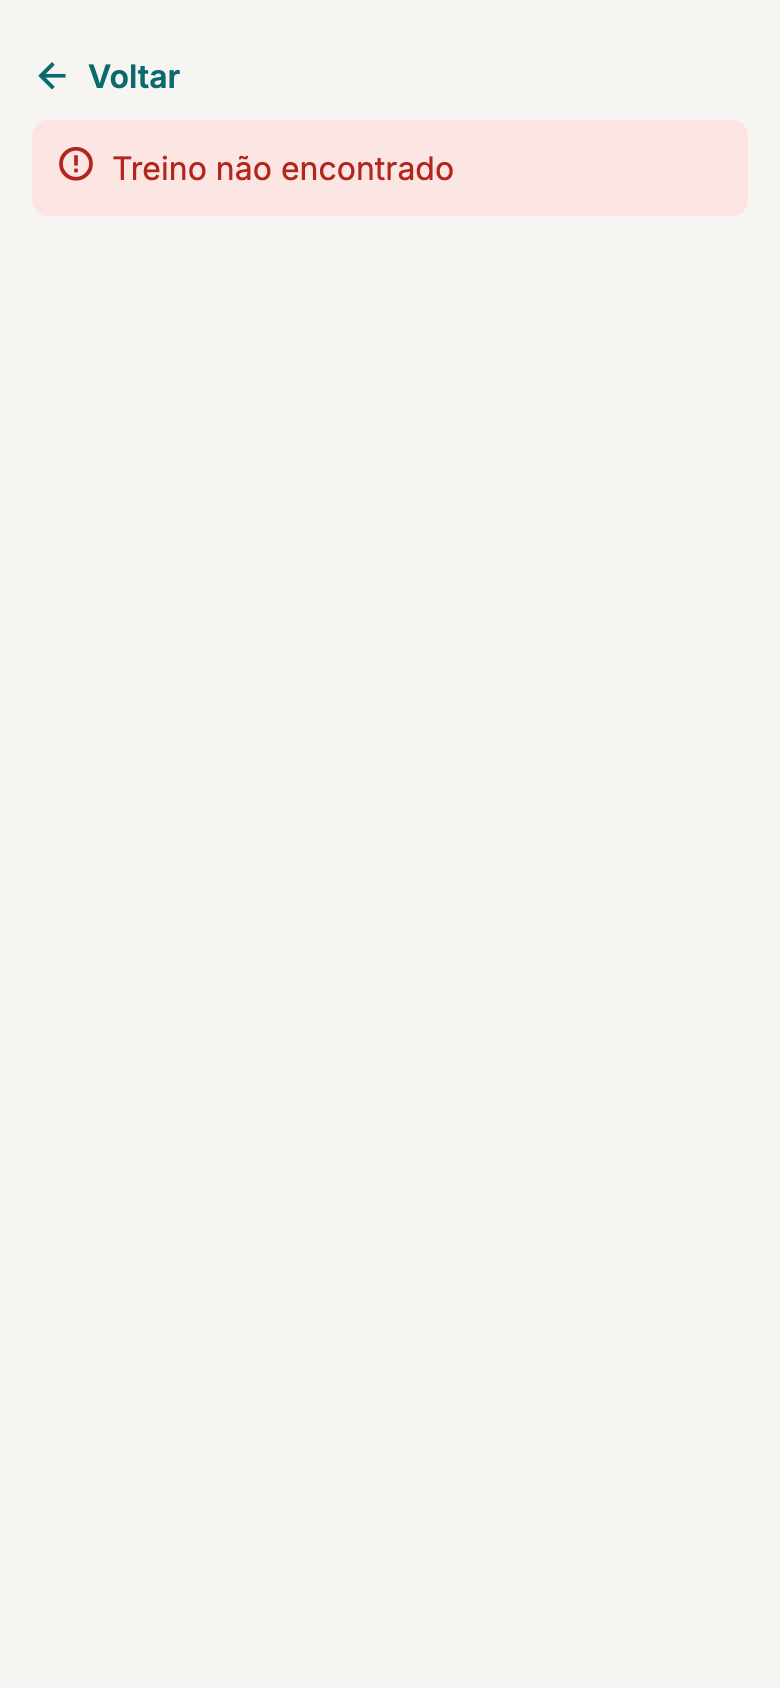
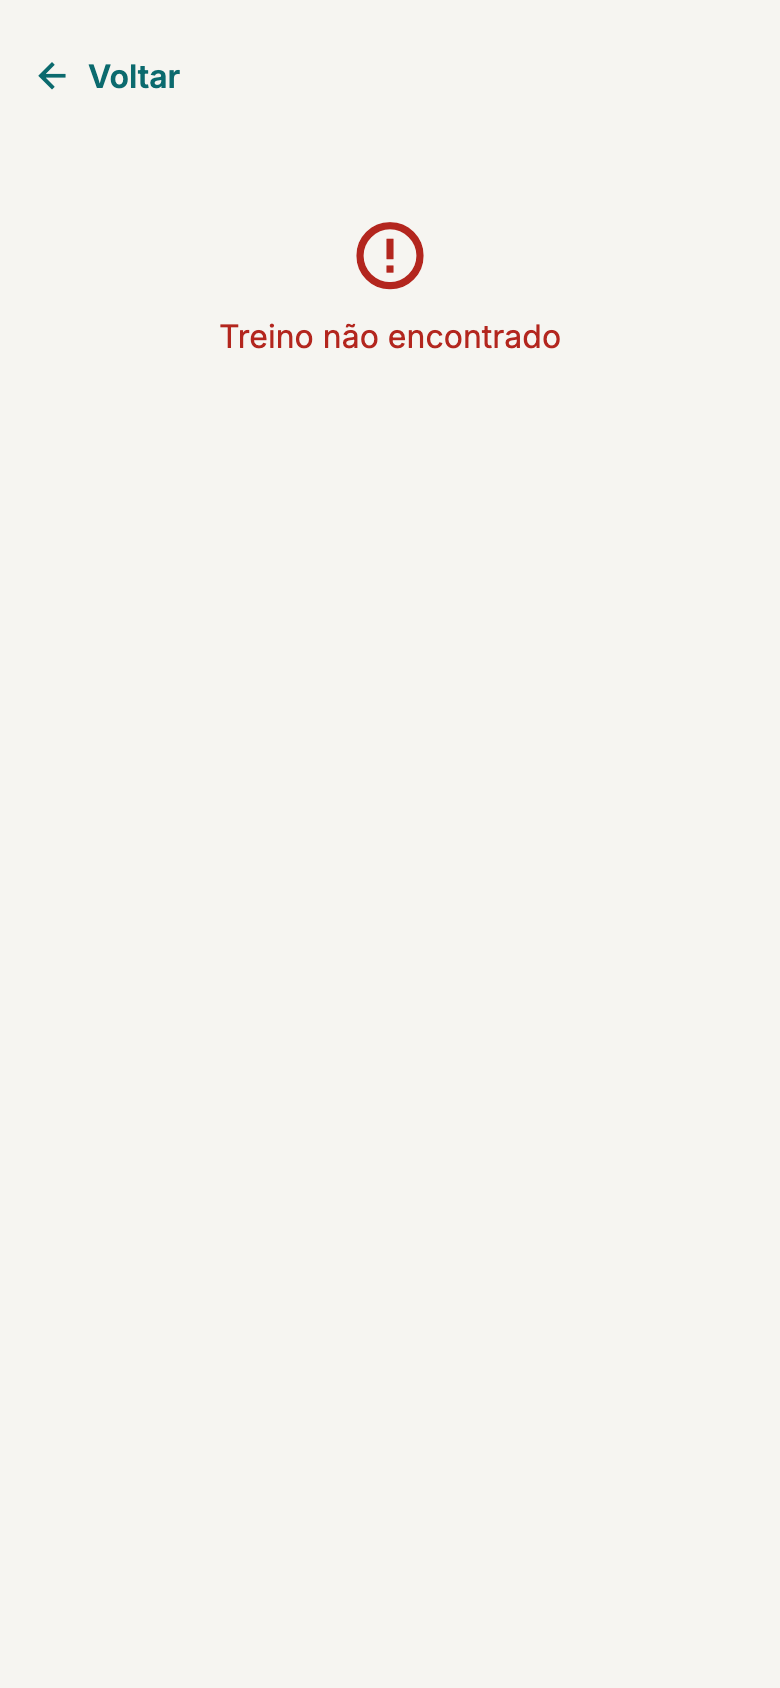
Tela de um treino: esqueleto, erro com ícone, acessibilidade e capturas (#219) (#225)
* Tela de um treino: esqueleto, ícones de erro, alerta e clima lido junto (#219)

* Teste da tela de um treino: folga de tempo para o primeiro render no CI (#219)

* Docs #219: mobile.md com a spec da tela do treino nos links

---------

Changed region(s): [[0.1538, 0.0924, 0.7077, 0.2156], [0.2769, 0.1848, 0.4, 0.2156], [0.0615, 0.0924, 0.1231, 0.1232]]

diff --git a/apps/mobile/src/componentes/TelaTreino.tsx b/apps/mobile/src/componentes/TelaTreino.tsx
@@ -1,9 +1,10 @@
 import { MaterialIcons } from "@expo/vector-icons";
 import { buscarAtividade, type Atividade, type ClimaAtividade, type ErroApi } from "@treino/api-client";
 import { useCallback, useEffect, useMemo, useState, type ReactNode } from "react";
-import { ActivityIndicator, Pressable, ScrollView, StyleSheet, Text, View } from "react-native";
+import { Pressable, ScrollView, StyleSheet, Text, View } from "react-native";
 
 import { borda, espaco, fonte, larguraConteudoMax, raio, tamanho, useMargemTela, useTema, type Tema } from "../tema";
+import { EsqueletoTreino } from "./Esqueleto";
 import { dataCurta } from "./GraficoTiros";
 
 type Props = {
@@ -79,17 +80,24 @@ export function TelaTreino({ apiUrl, atletaId, atividadeId, aoVoltar, fetchFn }:
         </Pressable>
       )}
       {estado.tipo === "carregando" && (
-        <View style={styles.centro}>
-          <ActivityIndicator color={tema.cor.destaque} />
-          <Text style={styles.texto}>Carregando o treino...</Text>
+        <View>
+          <Text accessibilityLiveRegion="polite" style={[styles.texto, { marginTop: espaco[2] }]}>
+            Carregando o treino...
+          </Text>
+          <EsqueletoTreino />
         </View>
       )}
       {estado.tipo === "erro" && (
-        <View>
-          <View style={[styles.aviso, { backgroundColor: tema.cor["erro-suave"] }]} accessibilityLiveRegion="polite">
-            <MaterialIcons name="error-outline" size={tamanho.iconeMedio} color={tema.cor.erro} />
-            <Text style={[styles.avisoTexto, { color: tema.cor.erro }]}>{mensagemErro(estado.erro)}</Text>
-          </View>
+        <View testID="estado-erro" style={styles.estado}>
+          <MaterialIcons
+            name={estado.erro.tipo === "rede" ? "wifi-off" : "error-outline"}
+            size={tamanho.iconeEstado}
+            color={tema.cor.erro}
+            accessible={false}
+          />
+          <Text accessibilityRole="alert" style={styles.erro}>
+            {mensagemErro(estado.erro)}
+          </Text>
           {estado.erro.tipo === "rede" && (
             <Pressable accessibilityRole="button" onPress={tentarDeNovo} style={styles.botao}>
               <Text style={styles.botaoTexto}>Tentar de novo</Text>
@@ -187,7 +195,7 @@ function CartaoClima({ clima, styles, tema }: { clima: ClimaAtividade; styles: E
 
 function Linha({ styles, rotulo, valor }: { styles: Estilos; rotulo: string; valor: string }) {
   return (
-    <View style={styles.linha}>
+    <View accessible accessibilityLabel={`${rotulo}, ${valor}`} style={styles.linha}>
       <Text style={styles.rotuloLinha}>{rotulo}</Text>
       <Text style={styles.valorLinha}>{valor}</Text>
     </View>
@@ -243,14 +251,14 @@ function criarEstilos({ cor }: Tema, margem: number = espaco[4]) {
     },
     chipTexto: { ...fonte.rotulo, color: cor.texto },
     subtitulo: { ...fonte.corpo, color: cor["texto-2"] },
-    centro: { alignItems: "center", paddingVertical: espaco[5], gap: espaco[2] },
+    estado: { alignItems: "center", paddingVertical: espaco[7], gap: espaco[2] },
+    erro: { ...fonte.corpo, color: cor.erro, textAlign: "center", marginBottom: espaco[3] },
     texto: { ...fonte.corpo, color: cor["texto-2"] },
     botao: {
       alignSelf: "flex-start",
       minHeight: tamanho.botaoAltura,
       justifyContent: "center",
       paddingHorizontal: espaco[4],
-      marginTop: espaco[3],
       borderRadius: raio.medio,
       backgroundColor: cor.destaque,
     },

diff --git a/apps/mobile/__tests__/TelaTreino.test.tsx b/apps/mobile/__tests__/TelaTreino.test.tsx
@@ -1,10 +1,14 @@
 import { StyleSheet } from "react-native";
-import { fireEvent, render, screen } from "@testing-library/react-native";
+import { fireEvent, render, screen, within } from "@testing-library/react-native";
 
 import { TelaTreino } from "../src/componentes/TelaTreino";
 import { atividades } from "../__fixtures__/atividades";
 
-jest.mock("@expo/vector-icons", () => require("../__fixtures__/iconesFalsos"));
+// Ícone falso com nome e tamanho (o real carrega a fonte e quebra no Jest).
+jest.mock("@expo/vector-icons", () => {
+  const { Text } = require("react-native");
+  return { MaterialIcons: ({ name, size }: { name: string; size: number }) => <Text>{`${name}:${size}`}</Text> };
+});
 
 const resposta = (status: number, corpo: unknown) =>
   ({ ok: status >= 200 && status < 300, status, json: async () => corpo }) as Response;
@@ -13,6 +17,9 @@ const fetchCom = (status: number, corpo: unknown) =>
 const tela = (f: typeof fetch, extra = {}) => (
   <TelaTreino apiUrl="http://api.teste" atletaId={1} atividadeId={101} fetchFn={f} {...extra} />
 );
+
+// O primeiro render a frio no CI passou de 5 s uma vez (#219); folga para a máquina lenta.
+jest.setTimeout(20000);
 
 describe("tela de um treino", () => {
   it("chama a API da atividade", async () => {
@@ -26,6 +33,32 @@ describe("tela de um treino", () => {
     const f = jest.fn(() => new Promise<Response>(() => {})) as unknown as typeof fetch;
     await render(tela(f));
     expect(screen.getByText("Carregando o treino...")).toBeTruthy();
+    expect(screen.getByTestId("esqueleto-treino", { includeHiddenElements: true })).toBeTruthy();
+    expect(screen.queryByTestId("esqueleto-evolucao", { includeHiddenElements: true })).toBeNull();
+  });
+
+  it("erro de rede: ícone wifi-off de 40, alerta e 'Tentar de novo'; 404 e 500: error-outline de 40", async () => {
+    const { unmount } = await render(tela(jest.fn().mockRejectedValue(new Error("x")) as unknown as typeof fetch));
+    const rede = await screen.findByTestId("estado-erro");
+    expect(within(rede).getByText("wifi-off:40")).toBeTruthy();
+    expect(within(rede).getByRole("alert")).toBeTruthy();
+    await unmount();
+    for (const status of [404, 500]) {
+      const r = await render(tela(fetchCom(status, { detail: "x" })));
+      const e = await screen.findByTestId("estado-erro");
+      expect(within(e).getByText("error-outline:40")).toBeTruthy();
+      expect(within(e).getByRole("alert")).toBeTruthy();
+      expect(within(e).queryByText("Tentar de novo")).toBeNull();
+      await r.unmount();
+    }
+  });
+
+  it("cada linha do clima é um item só, lido como 'rótulo, valor'", async () => {
+    await render(tela(fetchCom(200, atividades.ok)));
+    const cartao = await screen.findByTestId("cartao-clima");
+    for (const rotulo of ["Temperatura, 24,3 °C", "Sensação térmica, 25,1 °C", "Umidade, 61 %", "Vento, 8,2 km/h"]) {
+      expect(within(cartao).getByLabelText(rotulo).props.accessible).toBe(true);
+    }
   });
 
   it("clima ok: resumo com campos prontos, valores do clima e atribuição", async () => {

diff --git a/apps/mobile/src/componentes/Esqueleto.tsx b/apps/mobile/src/componentes/Esqueleto.tsx
@@ -41,14 +41,45 @@ function usePulso(reduzir: boolean): Animated.Value {
   return opacidade;
 }
 
-/** Esqueleto dos três cartões da tela de evolução (último treino, gráfico, lista). Só decorativo: o texto "Carregando" fica fora. */
-export function EsqueletoEvolucao() {
+/** Base dos esqueletos: pulso e fora da leitura (o texto "Carregando" fica fora, na tela). */
+function useBase() {
   const tema = useTema();
   const styles = useMemo(() => criarEstilos(tema), [tema]);
   const opacidade = usePulso(useReduzirMovimento());
   const barra = (largura: number | `${number}%`, altura: number, chave?: string) => (
     <View key={chave} style={[styles.barra, { width: largura, height: altura }]} />
   );
+  return { styles, opacidade, barra };
+}
+
+/** Esqueleto dos dois cartões da tela de um treino (resumo e clima). Só decorativo. */
+export function EsqueletoTreino() {
+  const { styles, opacidade, barra } = useBase();
+  return (
+    <Animated.View
+      testID="esqueleto-treino"
+      accessibilityElementsHidden
+      importantForAccessibility="no-hide-descendants"
+      style={{ opacity: opacidade }}
+    >
+      <View style={styles.cartao}>
+        {barra("30%", 16)}
+        {barra("40%", 44)}
+        {barra("50%", 20)}
+        {barra("60%", 20)}
+        {barra("40%", 16)}
+      </View>
+      <View style={styles.cartao}>
+        {barra("30%", 20)}
+        {[0, 1, 2, 3].map((i) => barra("100%", 44, `l${i}`))}
+      </View>
+    </Animated.View>
+  );
+}
+
+/** Esqueleto dos três cartões da tela de evolução (último treino, gráfico, lista). Só decorativo: o texto "Carregando" fica fora. */
+export function EsqueletoEvolucao() {
+  const { styles, opacidade, barra } = useBase();
   return (
     <Animated.View
       testID="esqueleto-evolucao"

diff --git a/docs/modulos/mobile.md b/docs/modulos/mobile.md
@@ -3,7 +3,7 @@ tipo: modulo
 status: em-uso
 dono: rafa
 atualizado: 2026-11-06
-links: [[modulos/api]], [[modulos/api-client]], [[produto/roadmap]], [[decisoes/0004-contrato-tela-evolucao]], [[produto/meta-2-como-rodar]], [[decisoes/0006-upload-de-fit]], [[design/guia-visual]], [[design/tokens]], [[decisoes/0007-clima-da-atividade]], [[modulos/clima]]
+links: [[modulos/api]], [[modulos/api-client]], [[produto/roadmap]], [[decisoes/0004-contrato-tela-evolucao]], [[produto/meta-2-como-rodar]], [[decisoes/0006-upload-de-fit]], [[design/guia-visual]], [[design/tokens]], [[decisoes/0007-clima-da-atividade]], [[modulos/clima]], [[design/telas/treino]]
 ---
 # Módulo: mobile
 
@@ -37,13 +37,13 @@ Rodar com dado sintético: passo a passo em [[produto/meta-2-como-rodar]] (API c
 
 ## Tela de um treino (`TelaTreino`, #159)
 `src/componentes/TelaTreino.tsx`, na rota `/treino/<atividade_id>` (`src/app/treino/[id].tsx`, que lê o parâmetro e passa `aoVoltar`). Chama `buscarAtividade(atletaId, atividadeId)` do [[modulos/api-client]] (`GET /atletas/{id}/atividades/{id}`) e mostra um estado por vez. **O app só mostra:** `data_local`, `hora_local`, `duracao` e `pace_medio` vêm prontos da API ([[decisoes/0004-contrato-tela-evolucao]], adendo 2); não há pace, fuso nem hora calculados no app. As únicas transformações são a data `AAAA-MM-DD` para `dd/mm/aa` (a mesma `dataCurta` da evolução), a distância `distancia_m` em km com vírgula (a API ainda não manda a distância pronta: #216) e o ponto decimal do clima trocado por vírgula.
-- carregando: "Carregando o treino..."; erro `404`: "Treino não encontrado" (ou "Atleta não encontrado" quando o `detail` é "atleta não encontrado"); outros status: "Não foi possível carregar este treino. Tente de novo mais tarde."; rede: "Não foi possível falar com o servidor" com "Tentar de novo". O erro é um aviso com ícone e fundo `erro-suave`.
+- carregando: esqueleto dos dois cartões (`EsqueletoTreino`, mesmo pulso da evolução) e o texto "Carregando o treino..." (#219); erro `404`: "Treino não encontrado" (ou "Atleta não encontrado" quando o `detail` é "atleta não encontrado"); outros status: "Não foi possível carregar este treino. Tente de novo mais tarde."; rede: "Não foi possível falar com o servidor" com "Tentar de novo". O erro (#219) é o mesmo da evolução: ícone de 40 em `cor.erro` (`wifi-off` na rede, `error-outline` nos outros), frase com `accessibilityRole="alert"` e, só na rede, "Tentar de novo".
 - sucesso: botão "Voltar" (44 de altura), título "Treino", chip da modalidade (ícone e cor do guia; corrida, ciclismo, natação) e "dd/mm/aa às HH:MM"; cartão com a **duração** em `fonte.numero-destaque`, "Distância", "Pace médio" **só quando `pace_medio` vem preenchido** (corrida; natação e ciclismo não mostram a linha) e "FC média" ou "sem FC"; cartão "Clima".
 - cartão "Clima" por `clima.estado`: `ok` mostra Temperatura, Sensação térmica, Umidade e Vento (valor ausente vira "sem dado") e, embaixo, o texto de `clima.atribuicao` ("Weather data by Open-Meteo.com", ADR 0007 item 4; o app não escreve a atribuição, só mostra o que vem, e ela só vem com clima `ok`); `indoor`: "Treino em ambiente fechado: não há clima para mostrar."; `sem_posicao`: "O arquivo não tem posição, então não dá para buscar o clima."; `pendente`: "O clima deste treino ainda não chegou. Treinos recentes podem levar cerca de uma semana."; `falha`: "Não foi possível obter o clima deste treino." (aviso âmbar com ícone). Sem objeto `clima`, o cartão não aparece. Nunca se mostra posição.
-- Decisões sem spec de tela (não havia nota em `docs/design/telas/` para esta tela; seguiu-se o [[design/guia-visual]] e os tokens): cabeçalho com Voltar, título, chip e data; um número em destaque por cartão (a duração); cartão de clima em linhas rótulo/valor de 44; avisos com ícone e texto (`info-outline` para indoor, sem posição e pendente; `warning-amber` para falha); margem 16/24 como nas outras telas.
+- Decisões sem spec de tela (a implementação veio antes da spec; hoje a spec é [[design/telas/treino]], que fixa o que segue; antes disso seguiu-se o [[design/guia-visual]] e os tokens): cabeçalho com Voltar, título, chip e data; um número em destaque por cartão (a duração); cartão de clima em linhas rótulo/valor de 44, cada uma lida junta pelo leitor de tela ("Temperatura, 24,3 °C", #219); avisos com ícone e texto (`info-outline` para indoor, sem posição e pendente; `warning-amber` para falha); margem 16/24 como nas outras telas.
 - Pendência: a lista "Treinos" da `TelaEvolucao` ainda não leva a esta rota (mexer nela conflitaria com a #202); por ora a rota abre digitando a URL (#217). Tela de um treino com blocos, carga e esforços entra nas issues da Meta 5.
 - Testes: `__tests__/TelaTreino.test.tsx` (um por estado do clima, natação sem pace e sem FC, "9:99" e "99:88" provam que não reformata, atribuição só quando vem da API, 404, 500, rede, voltar) e `__tests__/rotaTreino.test.tsx` (parâmetro da rota). Atividades sintéticas em `apps/mobile/__fixtures__/atividades.ts`; os testes trocam o `MaterialIcons` por um falso (`__fixtures__/iconesFalsos.tsx`), porque o real carrega a fonte do ícone e quebra no Jest.
-- Capturas por estado (dados sintéticos, 390 de largura, claro e escuro) em `docs/design/telas/treino/`: `treino-<estado>-<tema>.png` para `clima-ok`, `indoor`, `sem-posicao`, `pendente`, `falha`, `natacao-sem-pace`, `erro-404` e `erro-500`.
+- Capturas por estado (dados sintéticos, 390 de largura, claro e escuro) em `docs/design/telas/treino/`: `treino-<estado>-<tema>.png` para `clima-ok`, `indoor`, `sem-posicao`, `pendente`, `falha`, `natacao-sem-pace`, `erro-404` e `erro-500`, mais `carregando` (esqueleto), regeradas no #219 com o título final "Treino".
 - Como gerar as capturas (#218), sem trocar config: `npm run api-falsa` (em `apps/mobile`; API falsa com dados sintéticos em `scripts/api-falsa.mjs`, porta 8000, serve a evolução e `GET /atletas/{id}/atividades/{id}`) e, em outro terminal, `EXPO_PUBLIC_API_URL=http://localhost:8000 npx expo start --web --port 8081`. Abra `http://localhost:8081` (e `/treino/101`). O modo escuro vem do `prefers-color-scheme` do navegador. Captura de prova da tela de evolução em `docs/design/telas/web/evolucao-web-static-218.jpg`.
 - Web com `web.output: "static"` (#218): **causa e correção**. No Expo Router 58 o export e o servidor de dev entregam o `<script>` do bundle, o CSS e as fontes pelo `useServerDocumentContext()` (`headNodes` e `bodyNodes`). O nosso `src/app/+html.tsx` não os renderizava, então o HTML saía sem o bundle (só o fundo "carregando-fonte"); `EXPO_WEB_DEV_HYDRATE` não tem relação. Corrigido no `+html.tsx` (mantido "static", que dá `lang="pt-BR"` e pré-render). Não remova `{headNodes}` e `{bodyNodes}`. Verificação: `npm run verificar:web` (exporta a web e falha se o `index.html` não tiver o `<script>` do `entry-*.js` ou o `lang="pt-BR"`) e `__tests__/html.test.tsx` (o `<script>` do contexto chega ao HTML).
 

diff --git a/docs/design/telas/treino.md b/docs/design/telas/treino.md
@@ -92,11 +92,8 @@ Hoje a tela só abre digitando a URL (#217). Proposta, sem quebrar a seleção c
 - Alvos de toque de 44 ou mais; contraste conforme [[design/tokens]]. Ícone nunca sozinho: sempre há texto.
 
 ## Como gerar capturas sintéticas
-Com `web.output: "static"` no `app.json`, o servidor de dev e o export da web entregam o HTML **sem o `<script>` do
-bundle**: a página fica só no fundo de "carregando fonte" (visto na revisão do #211, reproduzido no #215). Enquanto a
-#218 não decide, para capturar: trocar localmente para `"single"` (sem commitar), subir `npx expo start --web`, usar
-uma API falsa com as fixtures sintéticas e fotografar em 390 de largura, tema claro e escuro. Nunca use o banco real
-do Angelo; só dado sintético em captura, no repositório público.
+Passo a passo em [[modulos/mobile]]: `npm run api-falsa` e `EXPO_PUBLIC_API_URL`, sem trocar config. Só dado sintético
+em captura (repositório público); 390 de largura, tema claro e escuro.
 
 ## O que muda em relação ao app de hoje
 | hoje | proposta | issue |
